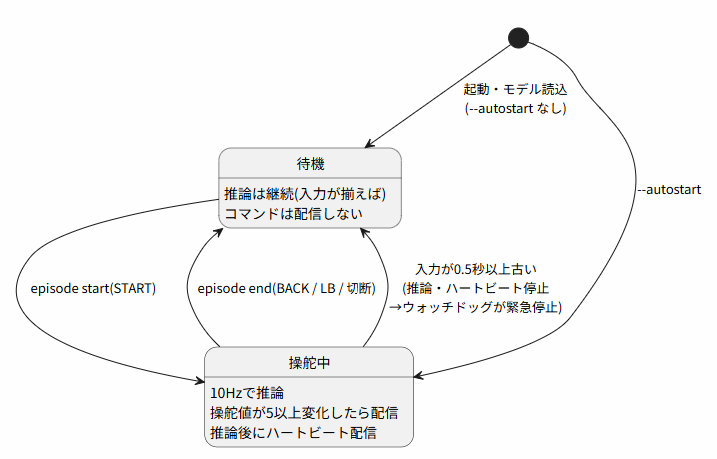
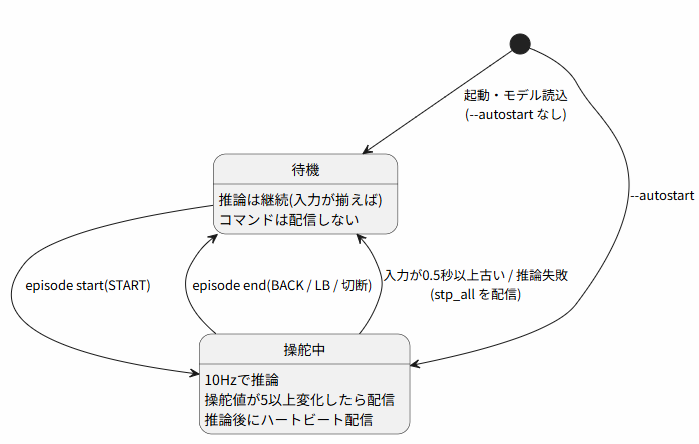
バージョン番号を0.0.0から0.1.0に更新

Changed region(s): [[0.0, 0.2928, 0.9914, 0.9955], [0.03, 0.0586, 0.8412, 0.5856], [0.8412, 0.2342, 0.8712, 0.2928]]

diff --git a/src/bridge/setup.py b/src/bridge/setup.py
@@ -6,7 +6,7 @@ package_name = 'bridge'
 
 setup(
     name=package_name,
-    version='0.0.0',
+    version='0.1.0',
     packages=find_packages(exclude=['test']),
     data_files=[
         ('share/ament_index/resource_index/packages',
